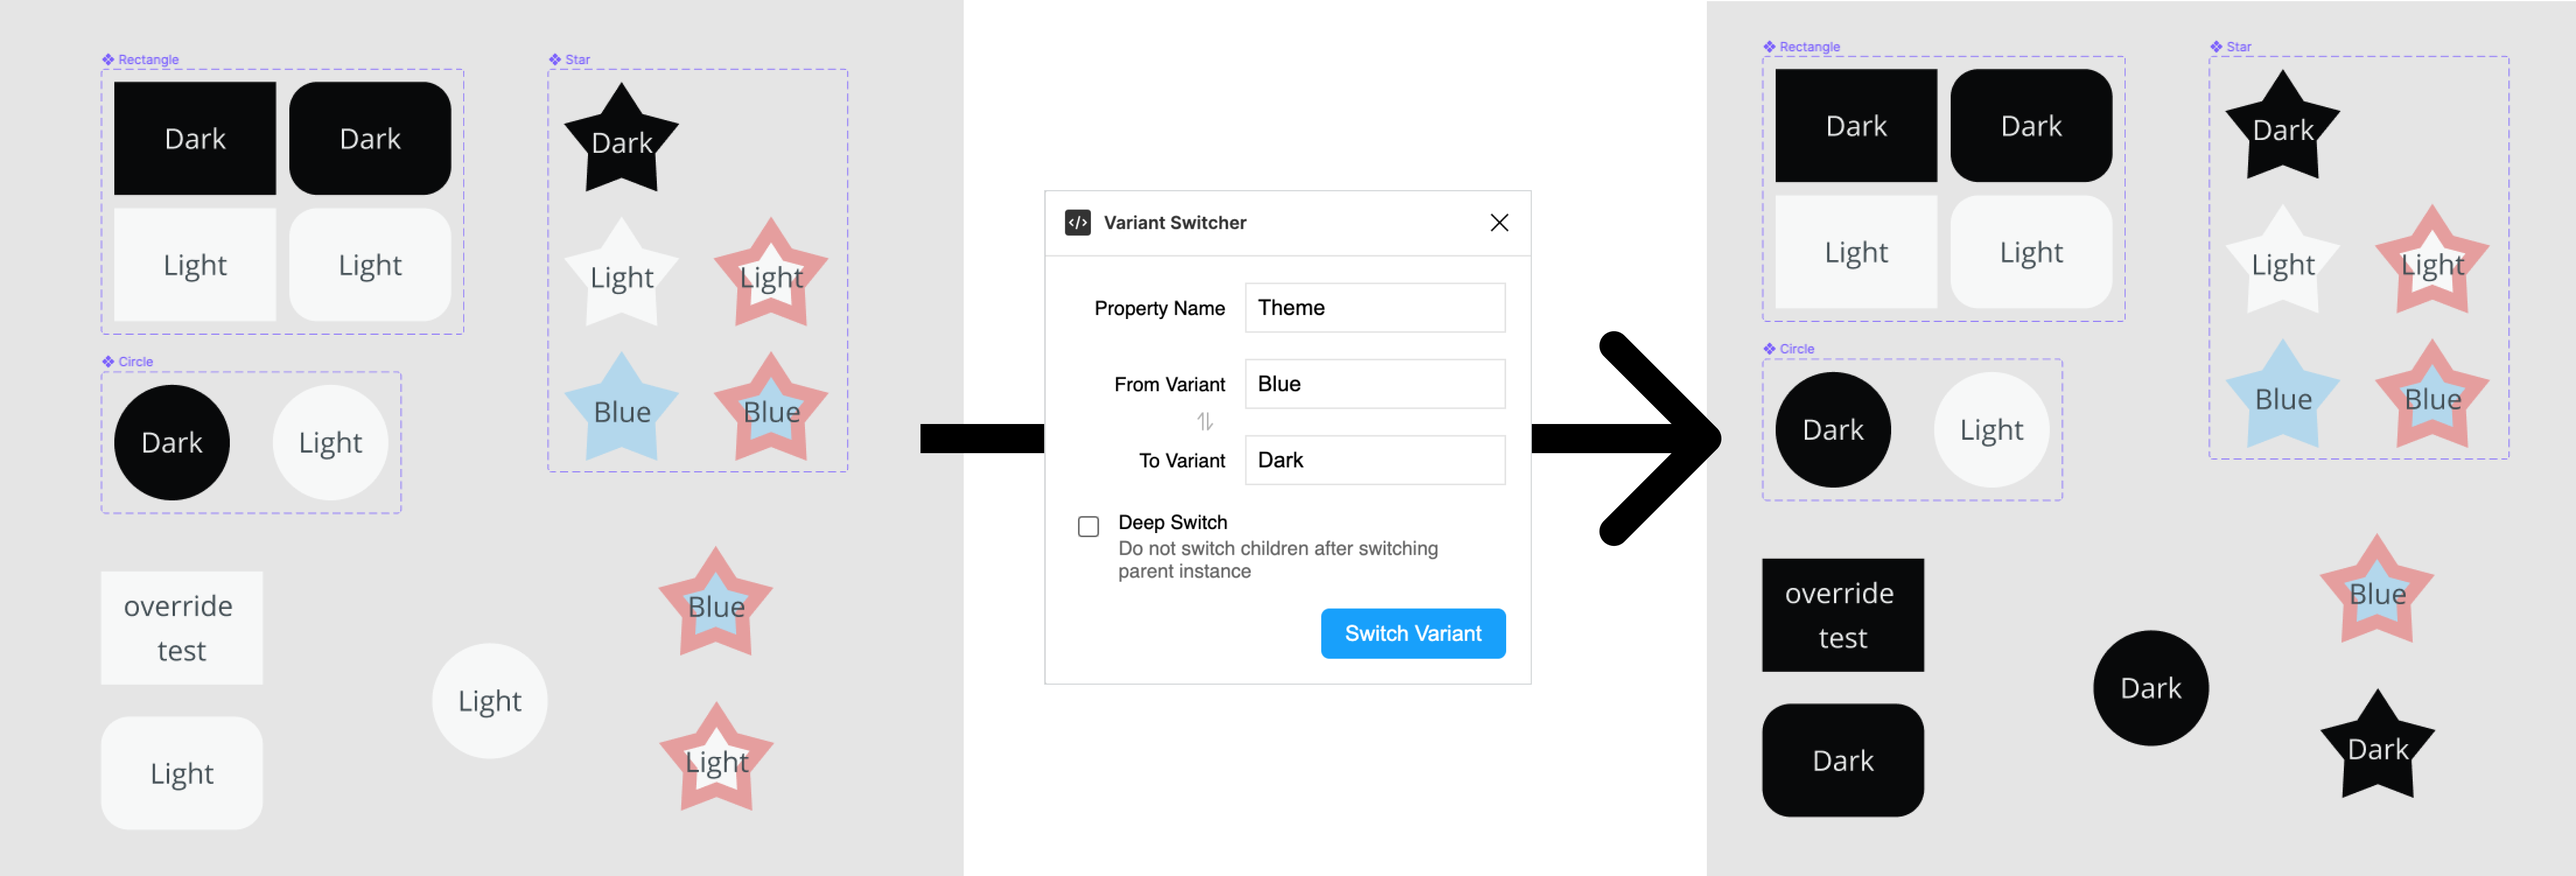
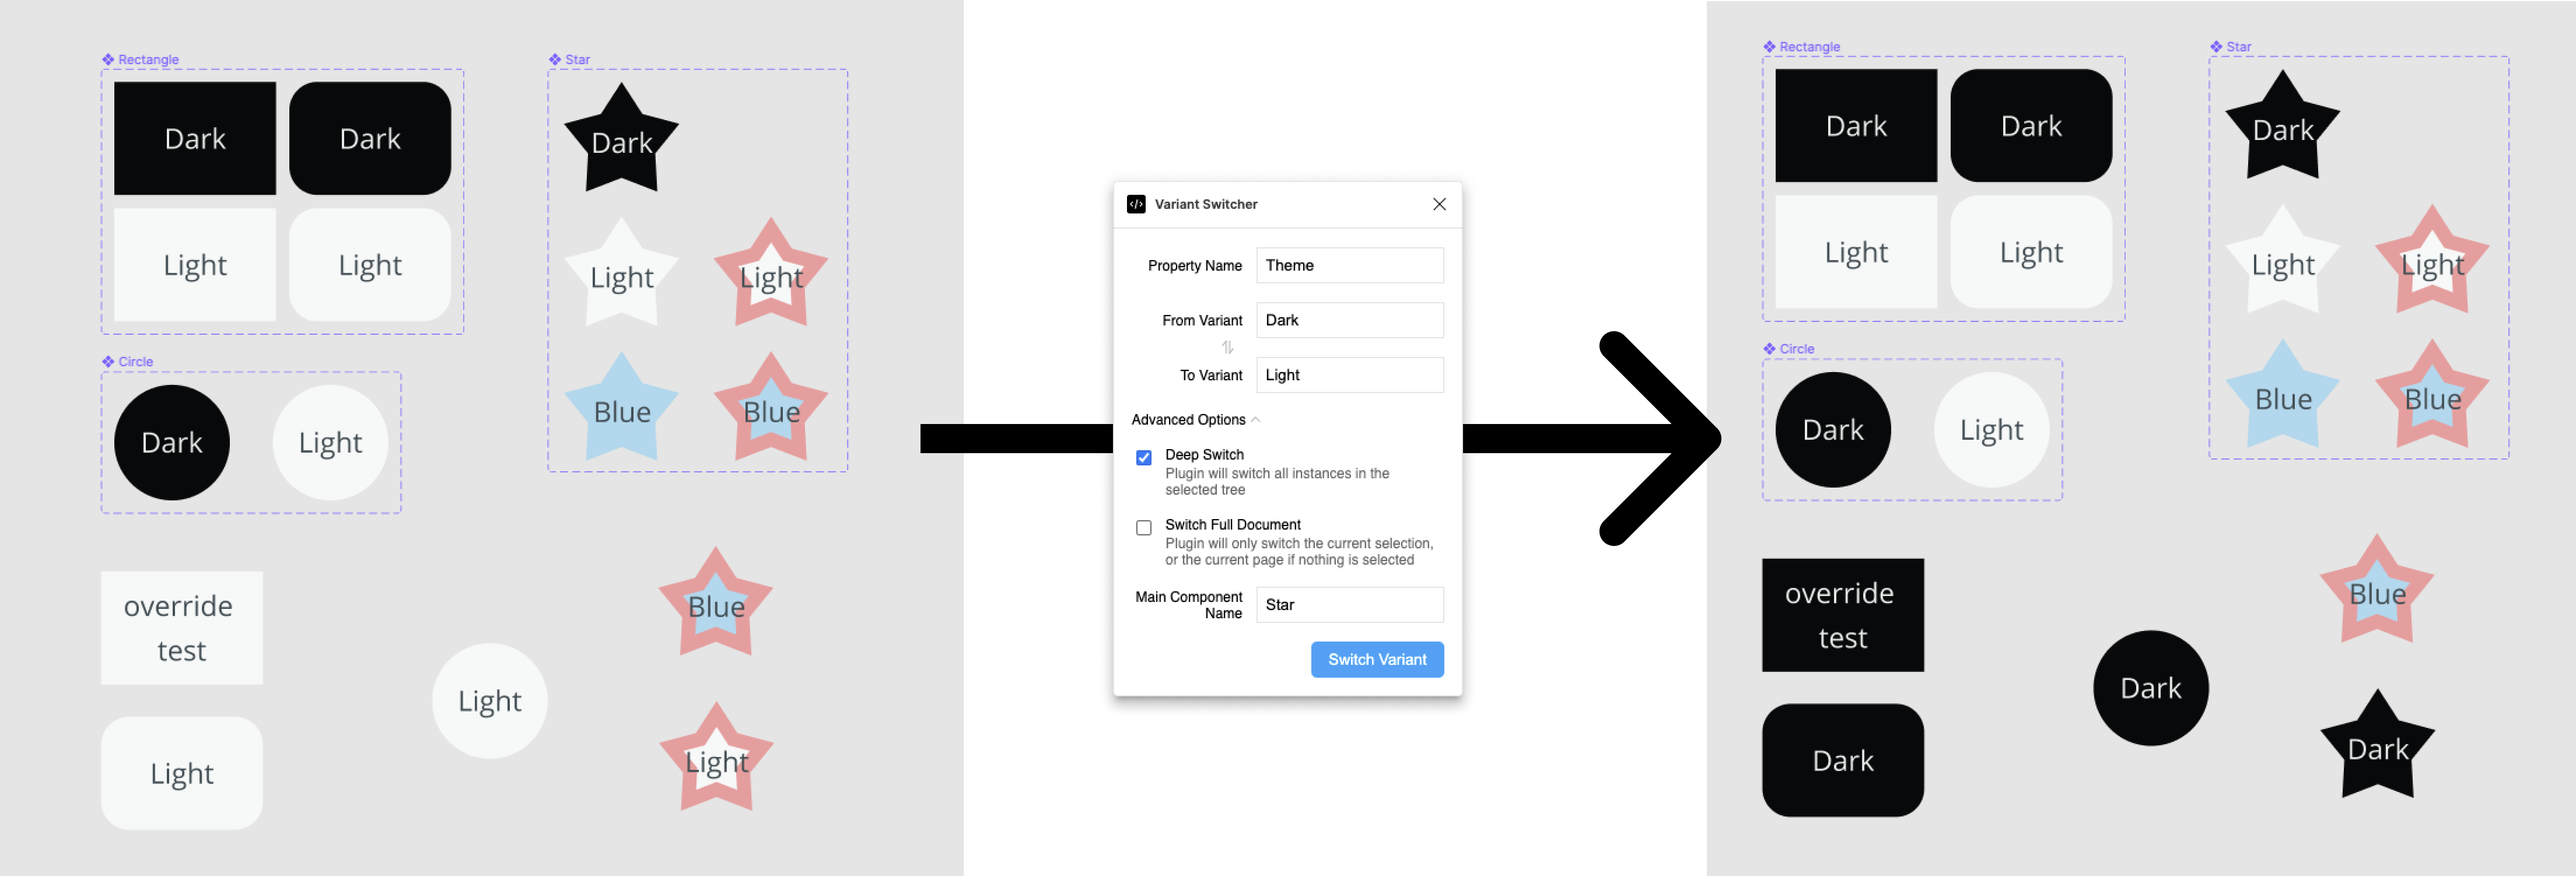
Update docs

diff --git a/variant-switcher/README.md b/variant-switcher/README.md
@@ -10,12 +10,14 @@ The Variant Switcher plugin takes all of your selected component instances and r
 
 The Variant Switcher plugin has four input fields:
 
-| Input Field   | Description                                                                                                                                      | Required? |
-| ------------- | ------------------------------------------------------------------------------------------------------------------------------------------------ | --------- |
-| Property Name | the property you want to change                                                                                                                  | yes       |
-| From Variant  | the current value you want to target (leave blank to select all instances with the selected property regardless of the current value)            | no        |
-| To Variant    | the new value you want to set the property to                                                                                                    | yes       |
-| Deep Switch   | When unchecked, the plugin will not switch children after switching parent instance. ([Diagram explanation](./_assets_/deep-switch-diagram.png)) | yes       |
+| Input Field          | Description                                                                                                                                                                        | Required? |
+| -------------------- | ---------------------------------------------------------------------------------------------------------------------------------------------------------------------------------- | --------- |
+| Property Name        | the property you want to change                                                                                                                                                    | yes       |
+| From Variant         | the current value you want to target (leave blank to select all instances with the selected property regardless of the current value)                                              | no        |
+| To Variant           | the new value you want to set the property to                                                                                                                                      | yes       |
+| Deep Switch          | When unchecked, the plugin will not switch children after switching parent instance. ([Diagram explanation](./_assets_/deep-switch-diagram.png))                                   | yes       |
+| Switch Full Document | When checked, the plugin will traverse through the entire document. When unchecked, the plugin will only switch the current selection, or the current page if nothing is selected. | yes       |
+| Main Component Name  | Change only instances with the specified main component name                                                                                                                       | no        |
 
 ## Example
 

diff --git a/variant-switcher/CHANGELOG.md b/variant-switcher/CHANGELOG.md
@@ -9,7 +9,7 @@
 
 ### Changed
 
--   Grouped advanced options behind an "Advanced Options" button.
+-   Grouped advanced options behind an "Advanced Options" dropdown.
 -   Allowed white space / no white space around the delimiter `,` between different instance names. ([#16](https://github.com/brightlayer-ui/figma-plugins/issues/16))
 
 ## v2.0.1 (Sept 29, 2021)
